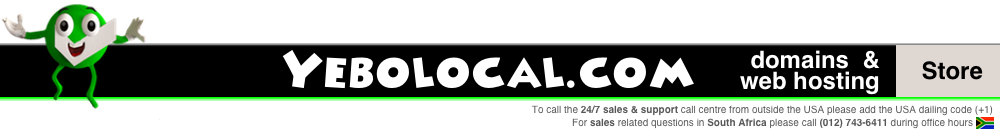
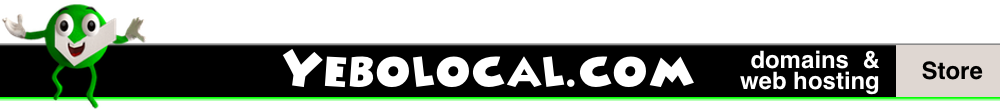
update

diff --git a/README.md b/README.md
@@ -14,12 +14,7 @@ Jebojek Version 0.13 - Copyright (c) 2013 Bernard Hamann
 
 Current
 
-<img src="http://yebolocal.com/assets/img/yebolocal-domains-hosting-banner-3.png" alt="yebolocal-domains-hosting-banner-3" width="1000" height="130" /><div align="right" style="font-size: 0.8em;"><p> To call the <strong>24 &#47; 7 sales &#38; support</strong> call centre from outside the USA please add the USA dailing code &#40; &#43; 1 &#41;</p>
-<p>For sales &#38; support related questions in <strong>South Africa</strong> please call <strong>&#40; 012 &#41; 743 &#45; 6411 </strong>during office hours</p>
- </div>
- 
- Proposed 
- 
- <img src="http://yebolocal.com/assets/img/yebolocal-domains-hosting-banner-3.png" alt="yebolocal-domains-hosting-banner-3" width="1000" height="130" /><div align="right" style="font-size: 0.8em; margin-bottom:100px;"><p style="padding:1px;"> To call the <strong>24 &#47; 7 sales &#38; support</strong> call centre from outside the USA please add the USA dailing code &#40; &#43; 1 &#41;</p>
+ <img src="http://yebolocal.com/assets/img/yebolocal-domains-hosting-banner-3.png" alt="yebolocal-domains-hosting-banner-3" width="1000" height="110" /><div align="right" style="font-size: 0.8em; "><p style="padding:1px;"> To call the <strong>24 &#47; 7 sales &#38; support</strong> call centre from outside the USA please add the USA dailing code &#40; &#43; 1 &#41;</p>
 <p style="padding:1px;">For sales &#38; support related questions in <strong>South Africa</strong> please call <strong>&#40; 012 &#41; 743 &#45; 6411 </strong>during office hours</p>
  </div>
+ 

diff --git a/_site/README.md b/_site/README.md
@@ -14,12 +14,7 @@ Jebojek Version 0.13 - Copyright (c) 2013 Bernard Hamann
 
 Current
 
-<img src="http://yebolocal.com/assets/img/yebolocal-domains-hosting-banner-3.png" alt="yebolocal-domains-hosting-banner-3" width="1000" height="130" /><div align="right" style="font-size: 0.8em;"><p> To call the <strong>24 &#47; 7 sales &#38; support</strong> call centre from outside the USA please add the USA dailing code &#40; &#43; 1 &#41;</p>
-<p>For sales &#38; support related questions in <strong>South Africa</strong> please call <strong>&#40; 012 &#41; 743 &#45; 6411 </strong>during office hours</p>
- </div>
- 
- Proposed 
- 
- <img src="http://yebolocal.com/assets/img/yebolocal-domains-hosting-banner-3.png" alt="yebolocal-domains-hosting-banner-3" width="1000" height="130" /><div align="right" style="font-size: 0.8em; margin-bottom:100px;"><p style="padding:1px;"> To call the <strong>24 &#47; 7 sales &#38; support</strong> call centre from outside the USA please add the USA dailing code &#40; &#43; 1 &#41;</p>
+ <img src="http://yebolocal.com/assets/img/yebolocal-domains-hosting-banner-3.png" alt="yebolocal-domains-hosting-banner-3" width="1000" height="110" /><div align="right" style="font-size: 0.8em; "><p style="padding:1px;"> To call the <strong>24 &#47; 7 sales &#38; support</strong> call centre from outside the USA please add the USA dailing code &#40; &#43; 1 &#41;</p>
 <p style="padding:1px;">For sales &#38; support related questions in <strong>South Africa</strong> please call <strong>&#40; 012 &#41; 743 &#45; 6411 </strong>during office hours</p>
  </div>
+ 
